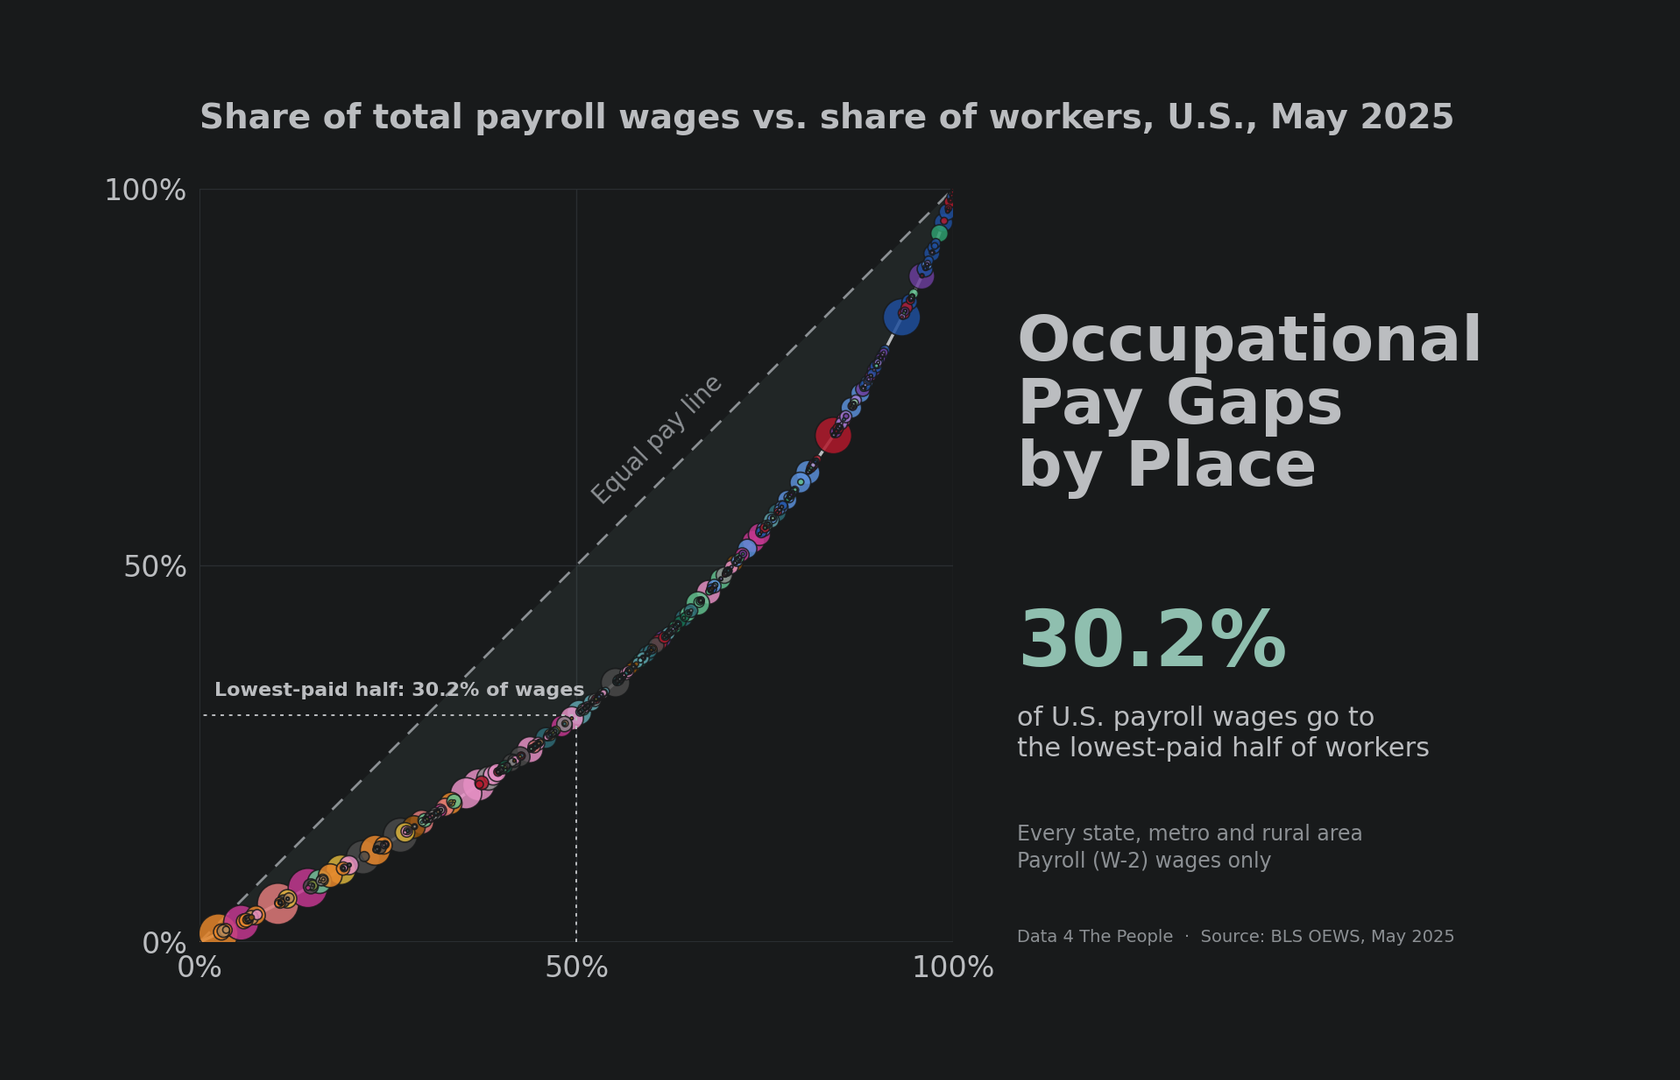
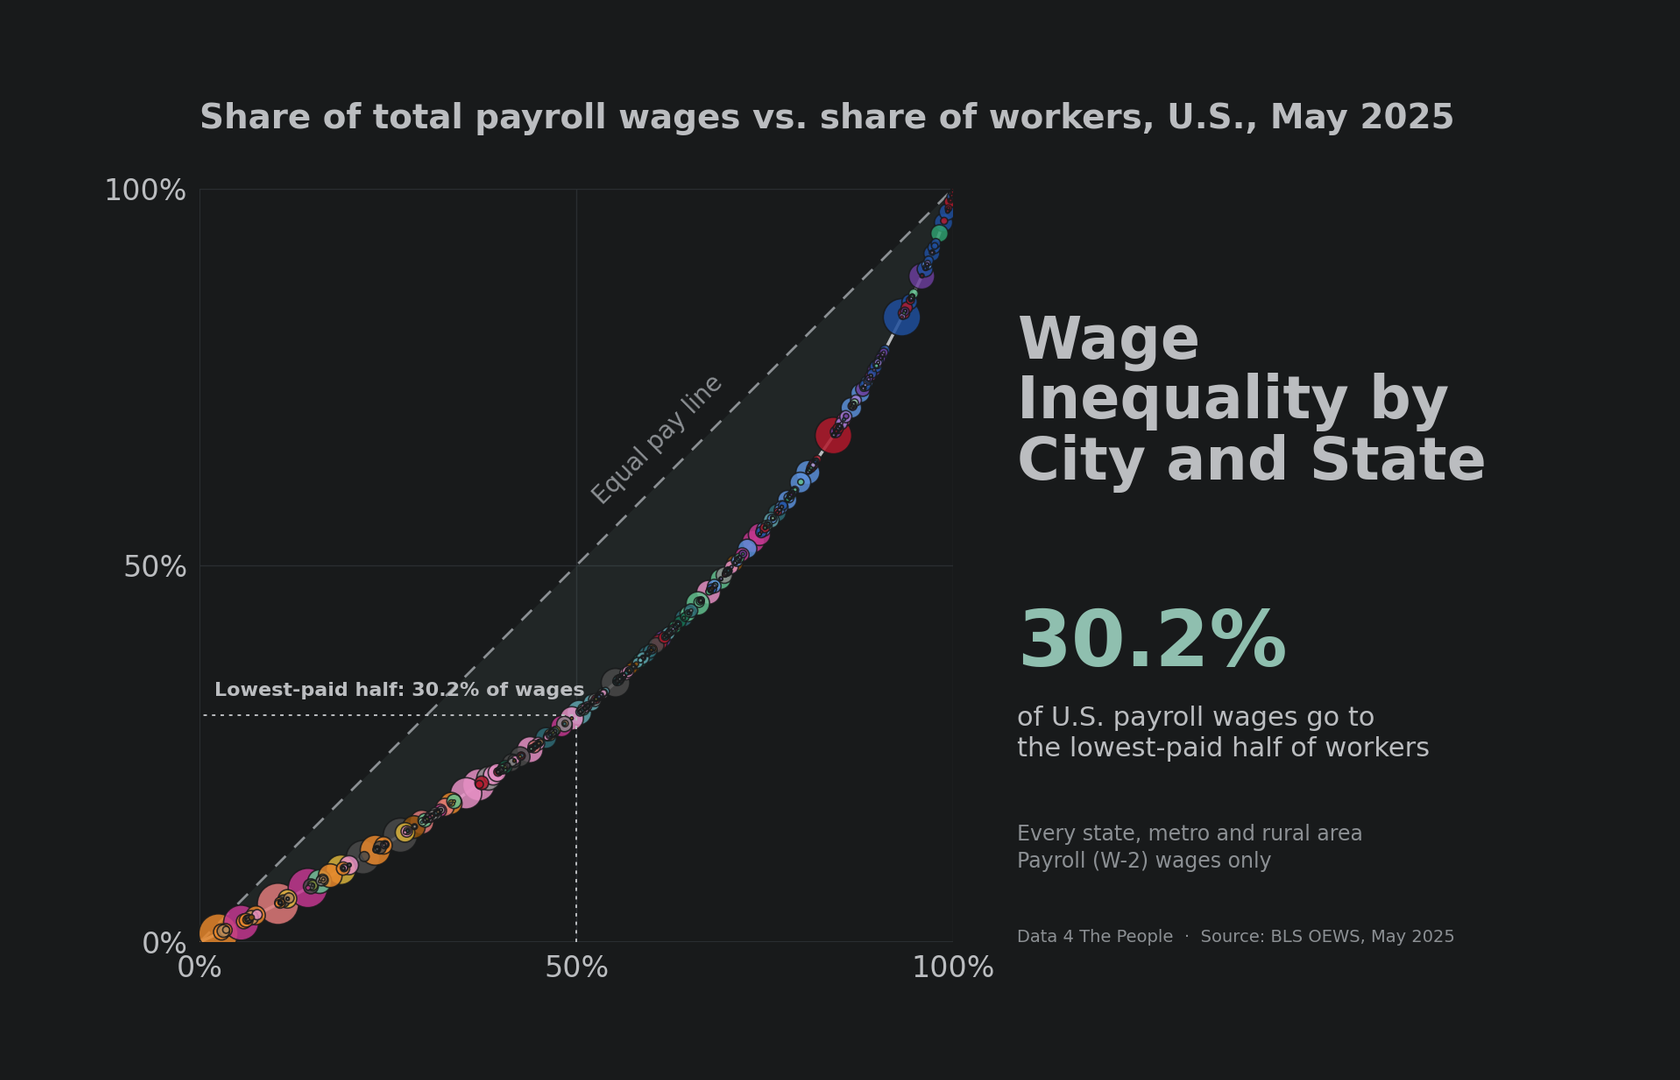
lorenz-chart-viz: step 2d re-run (hero title), step 2e done

Changed region(s): [[0.5881, 0.275, 0.8976, 0.4583]]

diff --git a/STATUS.md b/STATUS.md
@@ -6,7 +6,7 @@ Process: ~/.claude/d4tp-process/PROCESS.md
 ## Current
 
 Post: lorenz-chart-viz (Day 1; replaces the February 4, 2026 post in place)
-Step: 2d (re-run)
+Step: 2f
 Since: 2026-09-27
 
 ## Steps
@@ -18,16 +18,13 @@ Since: 2026-09-27
 | 2b | Eric's edit, Claude's look-over | 2026-09-27 | Items 1-15 accepted; IRS chart and crosswalk write-up added |
 | 2c | Slice markup | 2026-09-27 | 129 blocks; spacers between blurbs |
 | 2d | Hero 1680x1080 + alt text | 2026-09-27 | U.S. May 2025 curve rendered at hero scale; alt 463 characters |
-| 2e | SEO | | |
+| 2e | SEO | 2026-09-27 | Retargeted to wage inequality by city and state; dataset schema, 14 FAQ entries |
 | 2f | Pushed to Prismic (draft) | | |
 | 2g | Mailchimp teaser | | |
 
 ## Stale
 
-- 2a, 2b, 2c, 2d: stale as of 2026-09-27. Reason: Eric approved adding a
-  "top 10% vs. median" readout to the viz and retargeting the post for
-  "wage inequality by city and state" (new H1, rankings section, three new
-  questions). Each is re-run and re-confirmed in order after Step 1.
+None. (2a-2d were stale after /step back 1 on 2026-09-27; re-run the same day at Eric's instruction.)
 
 ## Log
 
@@ -84,3 +81,4 @@ Since: 2026-09-27
 - 2026-09-27 Step 1 re-confirmed by Eric. Eric asked to move through 2a-2f to the Prismic Migration Release.
 - 2026-09-27 2a and 2b re-run: changes since last confirmation are the approved SEO items (1-7) and Eric's Step 3 paragraph; every new number checked against the data (rankings, Gini values, top-10% vs median, U.S. line, Puerto Rico range). No issues.
 - 2026-09-27 2c re-run: 165 blocks, no back-to-back blurbs; embed cache tag updated to v=20260927c.
+- 2026-09-27 2d re-run: hero title text now Wage Inequality by City and State; alt text updated; hero check ok. 2e confirmed via Eric's approval of the SEO retarget. Moving to 2f.
